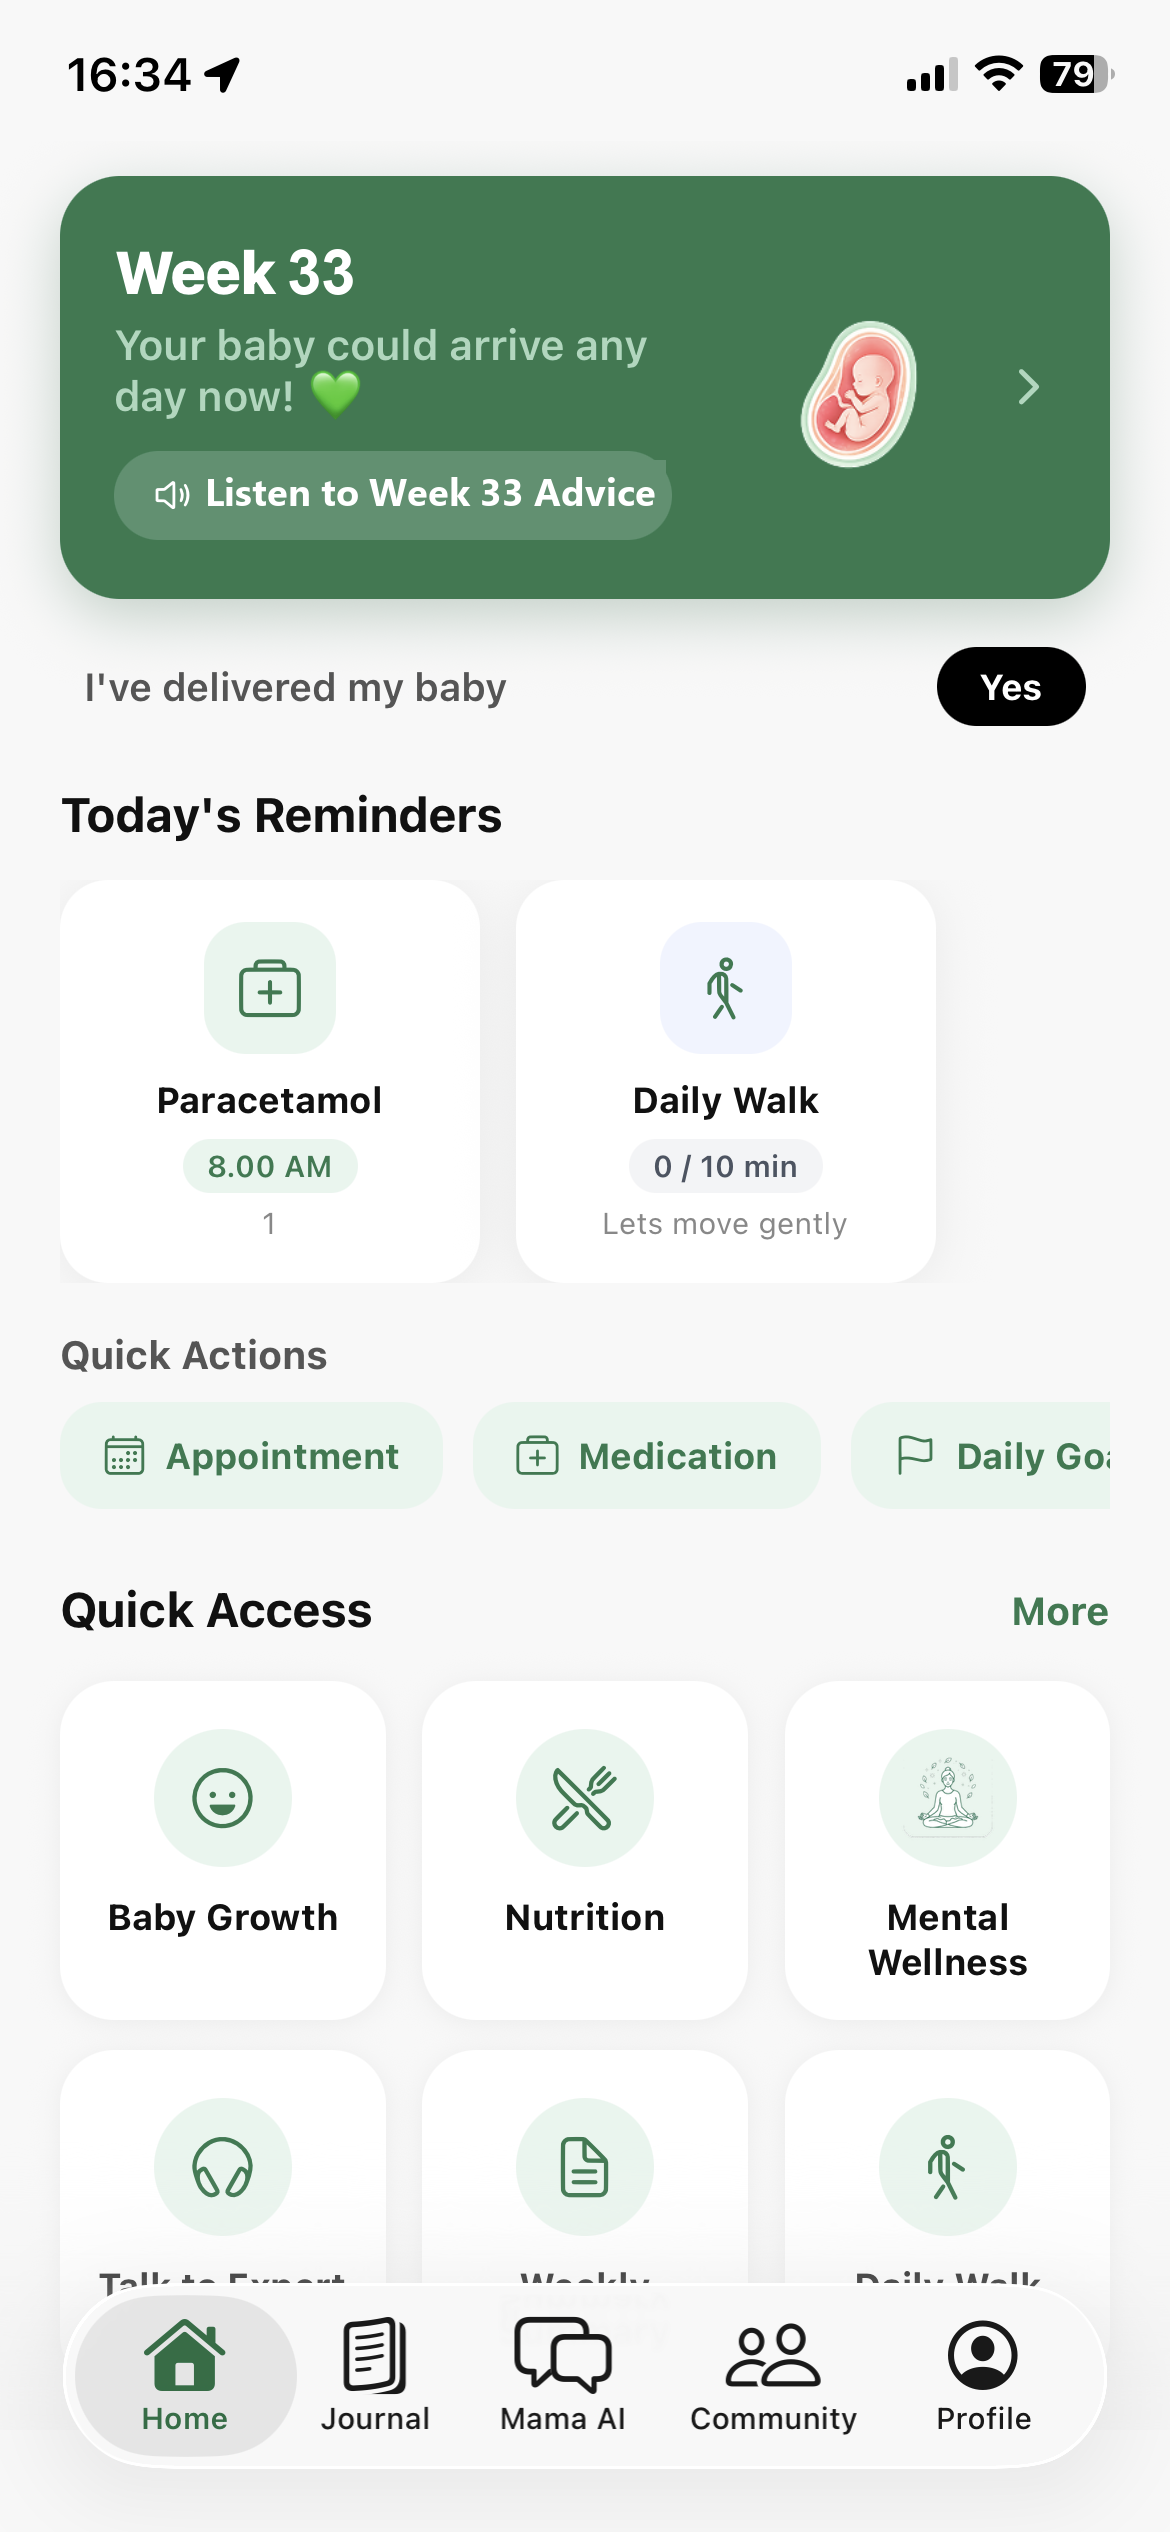
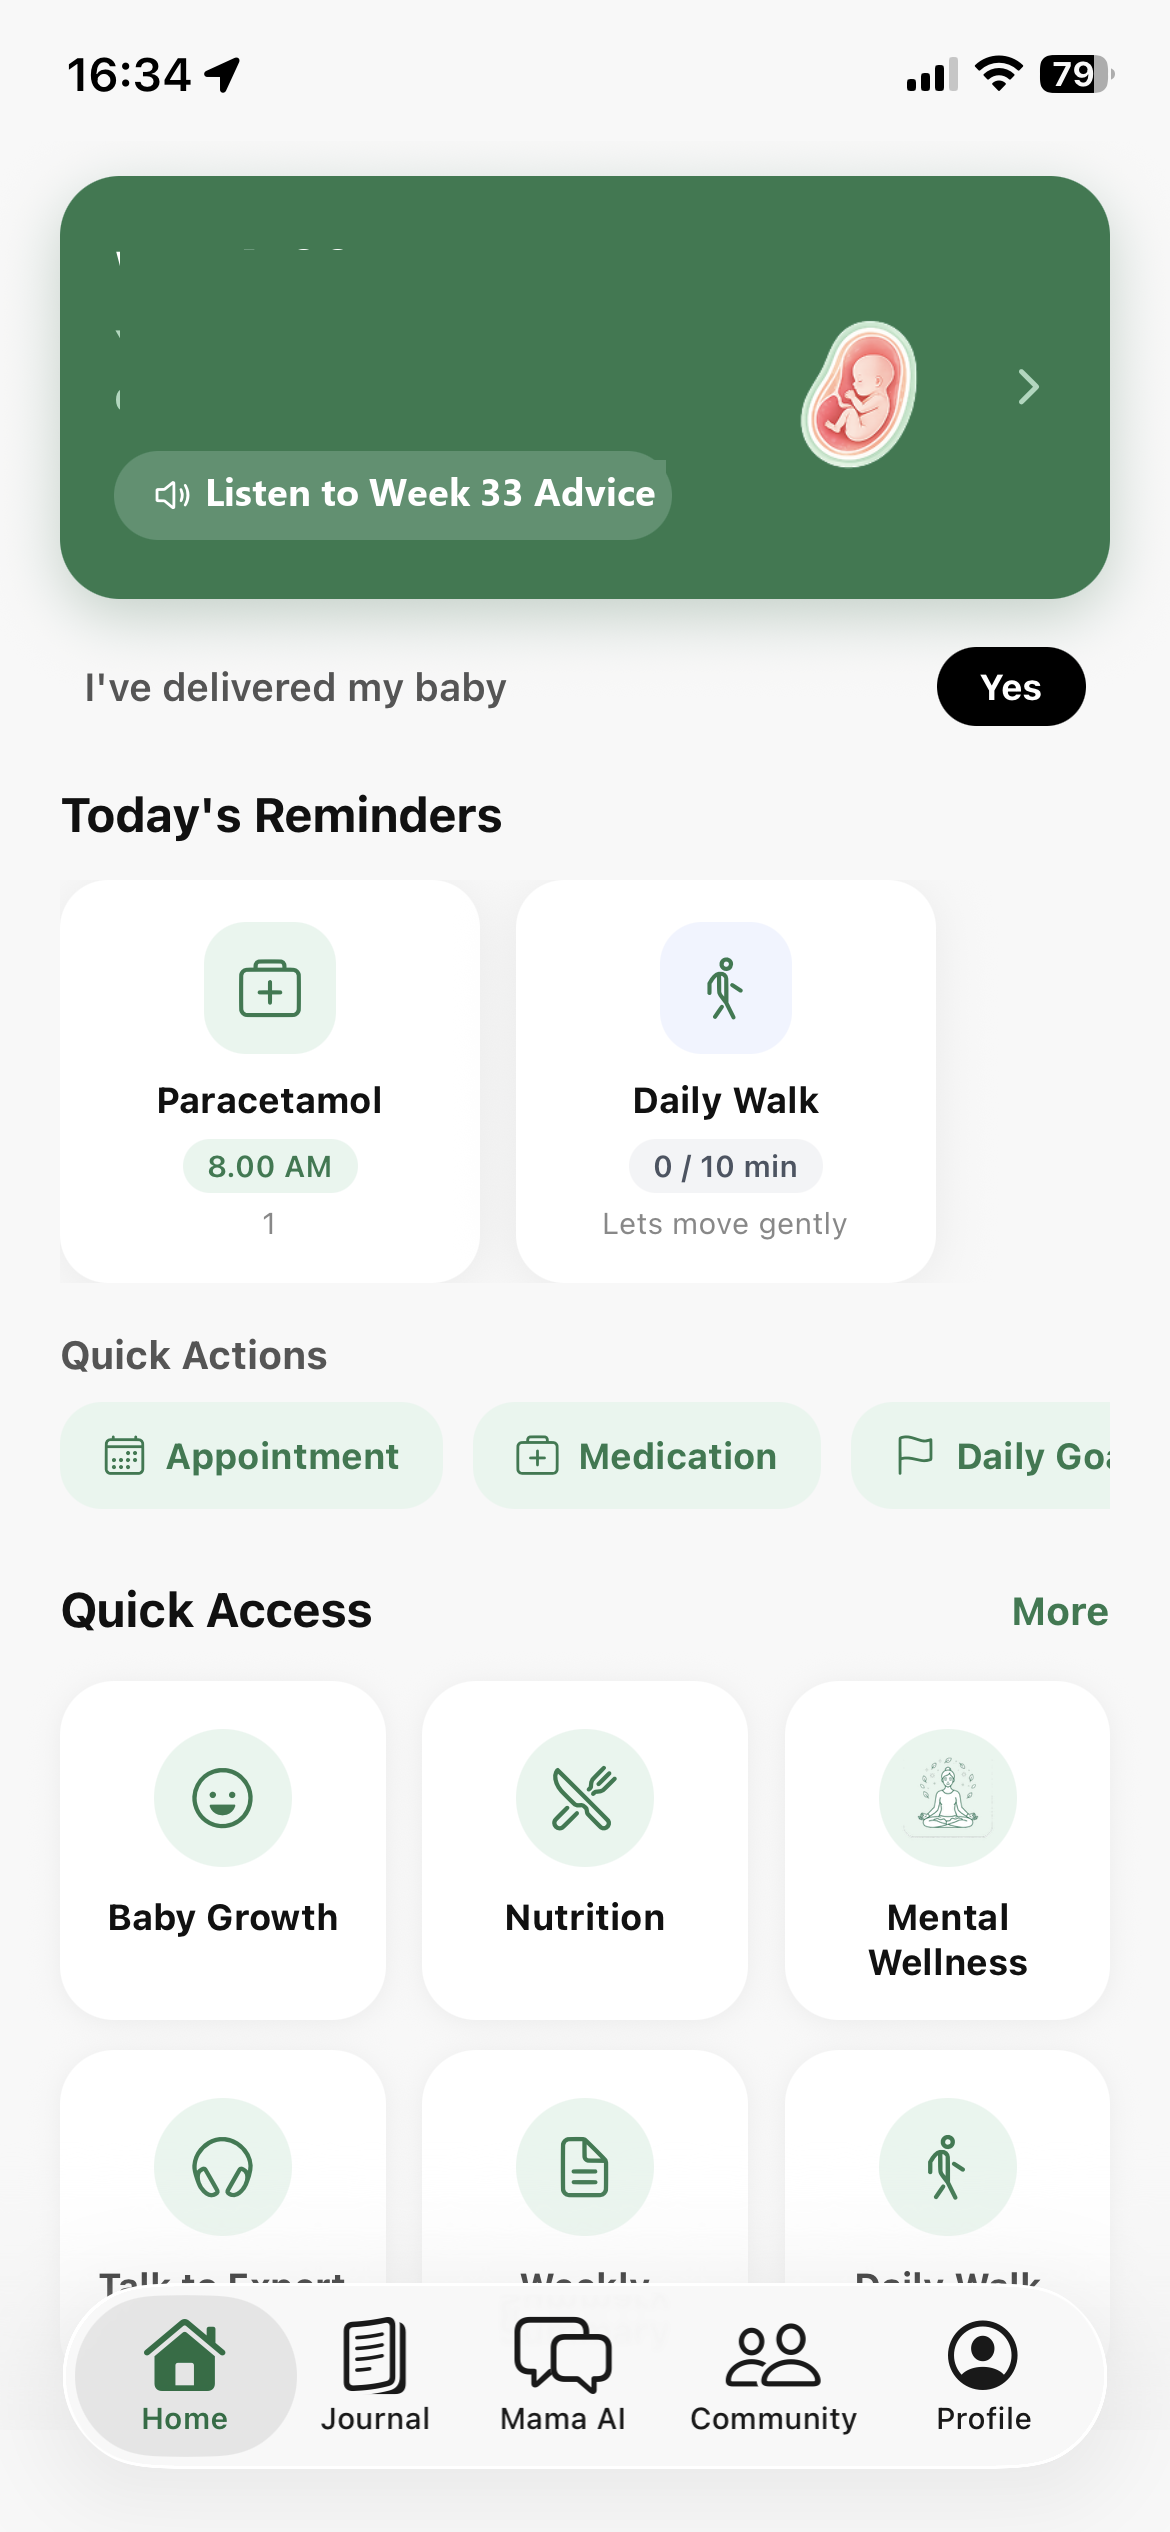
feat(hero): embed live web app in phone frame, remove preterm text from week 33 assets, remove side halo shadow

Changed region(s): [[0.0923, 0.0936, 0.5538, 0.1872]]

diff --git a/components/hero.tsx b/components/hero.tsx
@@ -7,6 +7,11 @@ import StaggerText from "./stagger-text";
 
 const SCREENS = [
     {
+        id: "web",
+        label: "Live Web App",
+        isWeb: true,
+    },
+    {
         id: "home",
         label: "Light Mode",
         src: "/assets/images/app-screen-home.png",
@@ -46,24 +51,32 @@ export default function Hero() {
                     </div>
                 </div>
 
-                {/* Right column - phone mockup with screenshot switcher */}
+                {/* Right column - phone mockup with live web app or screenshot switcher */}
                 <div className="flex flex-col items-center justify-center">
-                    <div className="relative rounded-[40px] sm:rounded-[46px] lg:rounded-[48px] bg-[#111827] p-2 sm:p-2.5 shadow-2xl ring-1 ring-black/10">
-                        <div className="relative overflow-hidden rounded-[32px] sm:rounded-[38px] lg:rounded-[40px] bg-white">
-                            <Image
-                                key={SCREENS[activeIndex].id}
-                                src={SCREENS[activeIndex].src}
-                                alt={SCREENS[activeIndex].alt}
-                                width={360}
-                                height={780}
-                                className="h-auto w-[200px] sm:w-[240px] lg:w-[250px] max-h-[540px] object-contain transition-opacity duration-300"
-                                priority
-                            />
+                    <div className="relative rounded-[40px] sm:rounded-[46px] lg:rounded-[48px] bg-[#111827] p-2 sm:p-2.5 border border-gray-900">
+                        <div className="relative overflow-hidden rounded-[32px] sm:rounded-[38px] lg:rounded-[40px] bg-white w-[220px] sm:w-[250px] lg:w-[260px] h-[480px] sm:h-[530px]">
+                            {SCREENS[activeIndex].isWeb ? (
+                                <iframe
+                                    src="https://web.mamacareng.com"
+                                    title="MamaCare Live Web App"
+                                    className="w-full h-full border-0"
+                                    loading="lazy"
+                                />
+                            ) : (
+                                <Image
+                                    key={SCREENS[activeIndex].id}
+                                    src={SCREENS[activeIndex].src!}
+                                    alt={SCREENS[activeIndex].alt!}
+                                    fill
+                                    className="object-cover transition-opacity duration-300"
+                                    priority
+                                />
+                            )}
                         </div>
                     </div>
 
-                    {/* Screenshot switcher pills centered under the mockup */}
-                    <div className="mt-4 flex items-center justify-center gap-1.5 rounded-full bg-white/90 p-1 shadow-sm backdrop-blur-sm border border-emerald-100">
+                    {/* Switcher pills centered under the mockup */}
+                    <div className="mt-4 flex items-center justify-center gap-1.5 rounded-full bg-white/90 p-1 shadow-xs border border-emerald-100">
                         {SCREENS.map((screen, idx) => (
                             <button
                                 key={screen.id}
